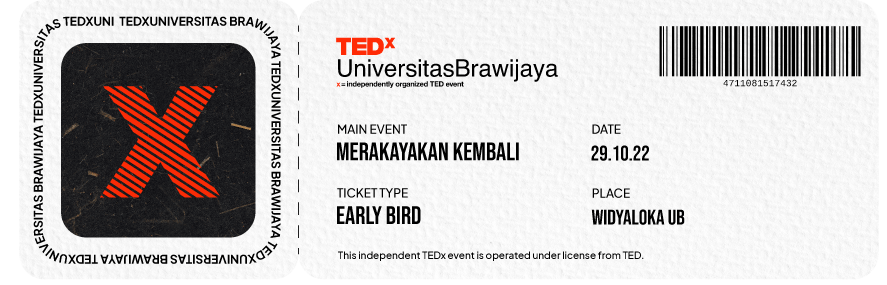
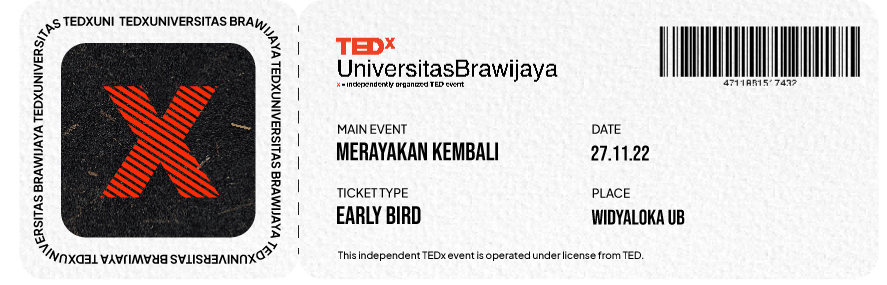
Update Main Event Time and Venue Location

diff --git a/src/pages/TicketConfirm.jsx b/src/pages/TicketConfirm.jsx
@@ -134,7 +134,7 @@ const TicketConfirm = () => {
                   icon="akar-icons:calendar"
                   className="text-lg shrink-0"
                 />
-                <p>2 Oct 2022</p>
+                <p>27 Nov 2022</p>
               </div>
               <div className="flex flex-row gap-2 items-center">
                 <Icon 
@@ -148,7 +148,7 @@ const TicketConfirm = () => {
                   icon="akar-icons:pin"
                   className="text-lg shrink-0"
                 />
-                <p>Graha Widyaloka, Universitas Brawijaya, Malang</p>
+                <p>Gedung Widyaloka, Universitas Brawijaya, Malang</p>
               </div>
             </div>
           </div>

diff --git a/src/components/Footer.jsx b/src/components/Footer.jsx
@@ -110,7 +110,7 @@ const Footer = () => {
         <div className="py-6 text-center md:text-left">
           <h4 className="font-jakartaBold mb-4">See You On The Stage</h4>
           <p className="mb-6">
-            Graha Widyaloka Universitas Brawijaya, Malang<br/>Kamis, 29 September 2022
+            Gedung Widyaloka Universitas Brawijaya, Malang<br/>Minggu, 27 November 2022
           </p>
           <Link to="/ticket">
             <button className="bg-main-3 py-2 px-8 rounded-md text-white hover:bg-[#c34132] transition-colors duration-200">
